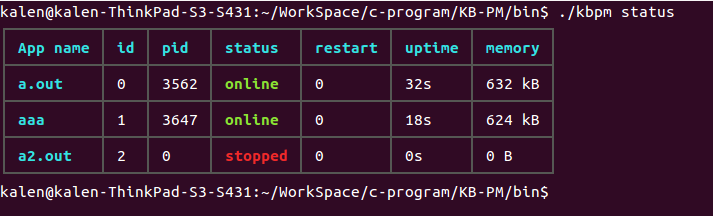
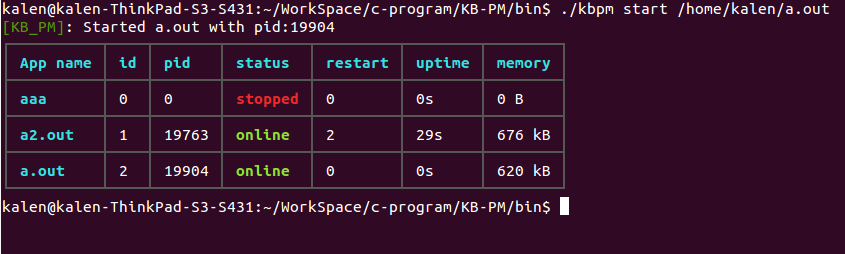
add restart and remove.

Changed region(s): [[0.0, 0.0, 1.0, 0.9167], [0.432, 0.3611, 0.5245, 0.4167]]

diff --git a/src/server.c b/src/server.c
@@ -227,7 +227,7 @@ void *server_socket_handle_func(void *args)
             /*command status*/
             get_process_list_status(response);
         }else if(strcmp(buffer, "start") == 0){
-            /*command start <app_name|cmd>*/
+            /*command start <app_name|cmd|id>*/
             write(client_sockfd, "pong", strlen("pong"));
             memset(buffer, '\0', sizeof(buffer));
             read(client_sockfd, buffer, STR_BUFFER_SIZE);
@@ -239,7 +239,7 @@ void *server_socket_handle_func(void *args)
             }
             server_start_process(&process, response);
         }else if(strncmp(buffer, "stop", strlen("stop")) == 0){
-            /*command stop <app_name>*/
+            /*command stop <app_name|id>*/
             write(client_sockfd, "pong", strlen("pong"));
             memset(buffer, '\0', sizeof(buffer));
             /*get the appname*/
@@ -252,14 +252,49 @@ void *server_socket_handle_func(void *args)
                 }
             }
             if(!flag){/*flag == 0*/
-                strcpy(response, "cannot find the process named:");
-                strcat(response, buffer);
+                sprintf(response, "cannot find an app named:%s", buffer);
                 write(client_sockfd, response, strlen(response));
                 goto GO_ON;
             }
             server_stop_process(&process_list[i], response);
+        }else if(strncmp(buffer, "restart", strlen("restart")) == 0){
+            /*command restart <app_name|id>*/
+            write(client_sockfd, "pong", strlen("pong"));
+            memset(buffer, '\0', sizeof(buffer));
+            /*get the appname*/
+            read(client_sockfd, buffer, STR_BUFFER_SIZE);
+            flag = 0;
+            for(i = 0; i < process_count; i++){
+                if(strcmp(process_list[i].app_name, buffer) == 0){
+                    flag = 1;
+                    break;
+                }
+            }
+            if(!flag){/*flag == 0*/
+                sprintf(response, "cannot find an app named:%s", buffer);
+                write(client_sockfd, response, strlen(response));
+                goto GO_ON;
+            }
+            server_restart_process(&process_list[i], response);
         }else if(strncmp(buffer, "remove", strlen("remove")) == 0){
             /*command remove <app_name|app_id>*/
+            write(client_sockfd, "pong", strlen("pong"));
+            memset(buffer, '\0', sizeof(buffer));
+            /*get the appname*/
+            read(client_sockfd, buffer, STR_BUFFER_SIZE);
+            flag = 0;
+            for(i = 0; i < process_count; i++){
+                if(strcmp(process_list[i].app_name, buffer) == 0){
+                    flag = 1;
+                    break;
+                }
+            }
+            if(!flag){/*flag == 0*/
+                sprintf(response, "cannot find an app named:%s", buffer);
+                write(client_sockfd, response, strlen(response));
+                goto GO_ON;
+            }
+            server_remove_process(&process_list[i], response);
 
         }else if(strcmp(buffer, "ping") == 0){
             strcpy(response, "pong");
@@ -297,7 +332,7 @@ void server_start_process(process_s *process, char* response)
             }
         }
         if (!flag){
-            sprintf(response, "cannot find a app named %s.", process->app_name);
+            sprintf(response, "cannot find an app named %s.", process->app_name);
             return;
         }
         if (p->is_running){
@@ -357,7 +392,7 @@ void server_start_process(process_s *process, char* response)
         time(&process->start_time);
         process_list[process_count] = *process;
         process_count++;
-        sprintf(response, "Starting %s with pid:%d",process->app_name, process->pid);
+        sprintf(response, "Started %s with pid:%d",process->app_name, process->pid);
         save_process_list(config_path, process_list);
         pthread_mutex_unlock(&process_list_mutex);
     }
@@ -365,7 +400,46 @@ void server_start_process(process_s *process, char* response)
 
 void server_restart_process(process_s *process, char* response)
 {
+    int res;
+    pid_t pid;
+    char config_path[STR_BUFFER_SIZE];
+    /*get config path according to $HOME*/
+    strcpy(config_path, getenv("HOME"));
+    strcat(config_path, CONFIG_PATH);
+    pthread_mutex_lock(&process_list_mutex);
+    if(process->is_running){
+        /*first:stop the process*/
+        process->is_running = 0;
+        kill_process(process, &res);
+        process->pid = 0;
+        process->start_time = 0;
+        save_process_list(config_path, process_list);
+        sprintf(response, "stop %s success", process->app_name);
 
+        /*second:start the process*/
+        pid = fork();
+        if(pid < 0){
+            fprintf(stderr, "cannot fork(), error: %s", strerror(errno));
+            exit(EXIT_FAILURE);
+        }else if(pid == 0){/*the child process*/
+            ignore_signals();
+            /*exec the child process.*/
+            exec_process(process, &res);
+            perror("exit error:");
+            exit(EXIT_FAILURE);
+        }else{/*the parent process*/
+            process->pid = pid;
+            process->is_running = 1;
+            time(&process->start_time);
+            process->restart_times++;
+            sprintf(response, "Restarted %s with pid:%d",process->app_name, process->pid);
+            save_process_list(config_path, process_list);
+        }
+
+    }else{
+        sprintf(response, "the %s is not running.", process->app_name);
+    }
+    pthread_mutex_unlock(&process_list_mutex);
 }
 
 void server_stop_process(process_s *process, char* response)
@@ -404,6 +478,7 @@ void server_remove_process(process_s *process, char* response)
         process->pid = 0;
         process->restart_times = 0;
     }
+    sprintf(response, "Remove %s success.", process->app_name);
     del_process_by_app_name(process_list, process->app_name);
     process_count--;
     save_process_list(config_path, process_list);

diff --git a/src/client.c b/src/client.c
@@ -89,8 +89,23 @@ void start_process(const char *app_name_or_cmd)
 
 void restart_process(const char *app_name)
 {
+    int res;
+    char buffer[BUFFER_SIZE];
+    /*check if the server is online.*/
+    ping_server(&res);
+    if(res != 0){
+        fprintf(stderr, "Error : server is not online.Run 'kbpm service start' to start the kbpm service.\n");
+        exit(EXIT_FAILURE);
+    }
 
-
+    communicate_two_signals_with_server("restart", (char *)app_name, &res, buffer);
+    if(res != 0){
+        printf("%s\n", "server error occur");
+        exit(EXIT_FAILURE);
+    }
+    printf(APP_NAME ": %s\n", buffer);
+    show_status();
+    exit(EXIT_SUCCESS);
 }
 
 void stop_process(const char *app_name)
@@ -130,8 +145,8 @@ void remove_process(const char* app_name)
         fprintf(stderr, "%s\n", "Error: server error occur");
         exit(EXIT_FAILURE);
     }
-    printf("result : %s\n", buffer);
-
+    printf(APP_NAME ": %s\n", buffer);
+    show_status();
     exit(EXIT_SUCCESS);
 }
 

diff --git a/src/kbpm.c b/src/kbpm.c
@@ -57,6 +57,11 @@ int main(int argc, char** argv)
             start_process(argv[2]);
         }
 
+        /*restart a process.*/
+        if(strcmp(argv[1], "restart") == 0){
+            restart_process(argv[2]);
+        }
+
         /*stop a process.*/
         if(strcmp(argv[1], "stop") == 0){
             stop_process(argv[2]);
